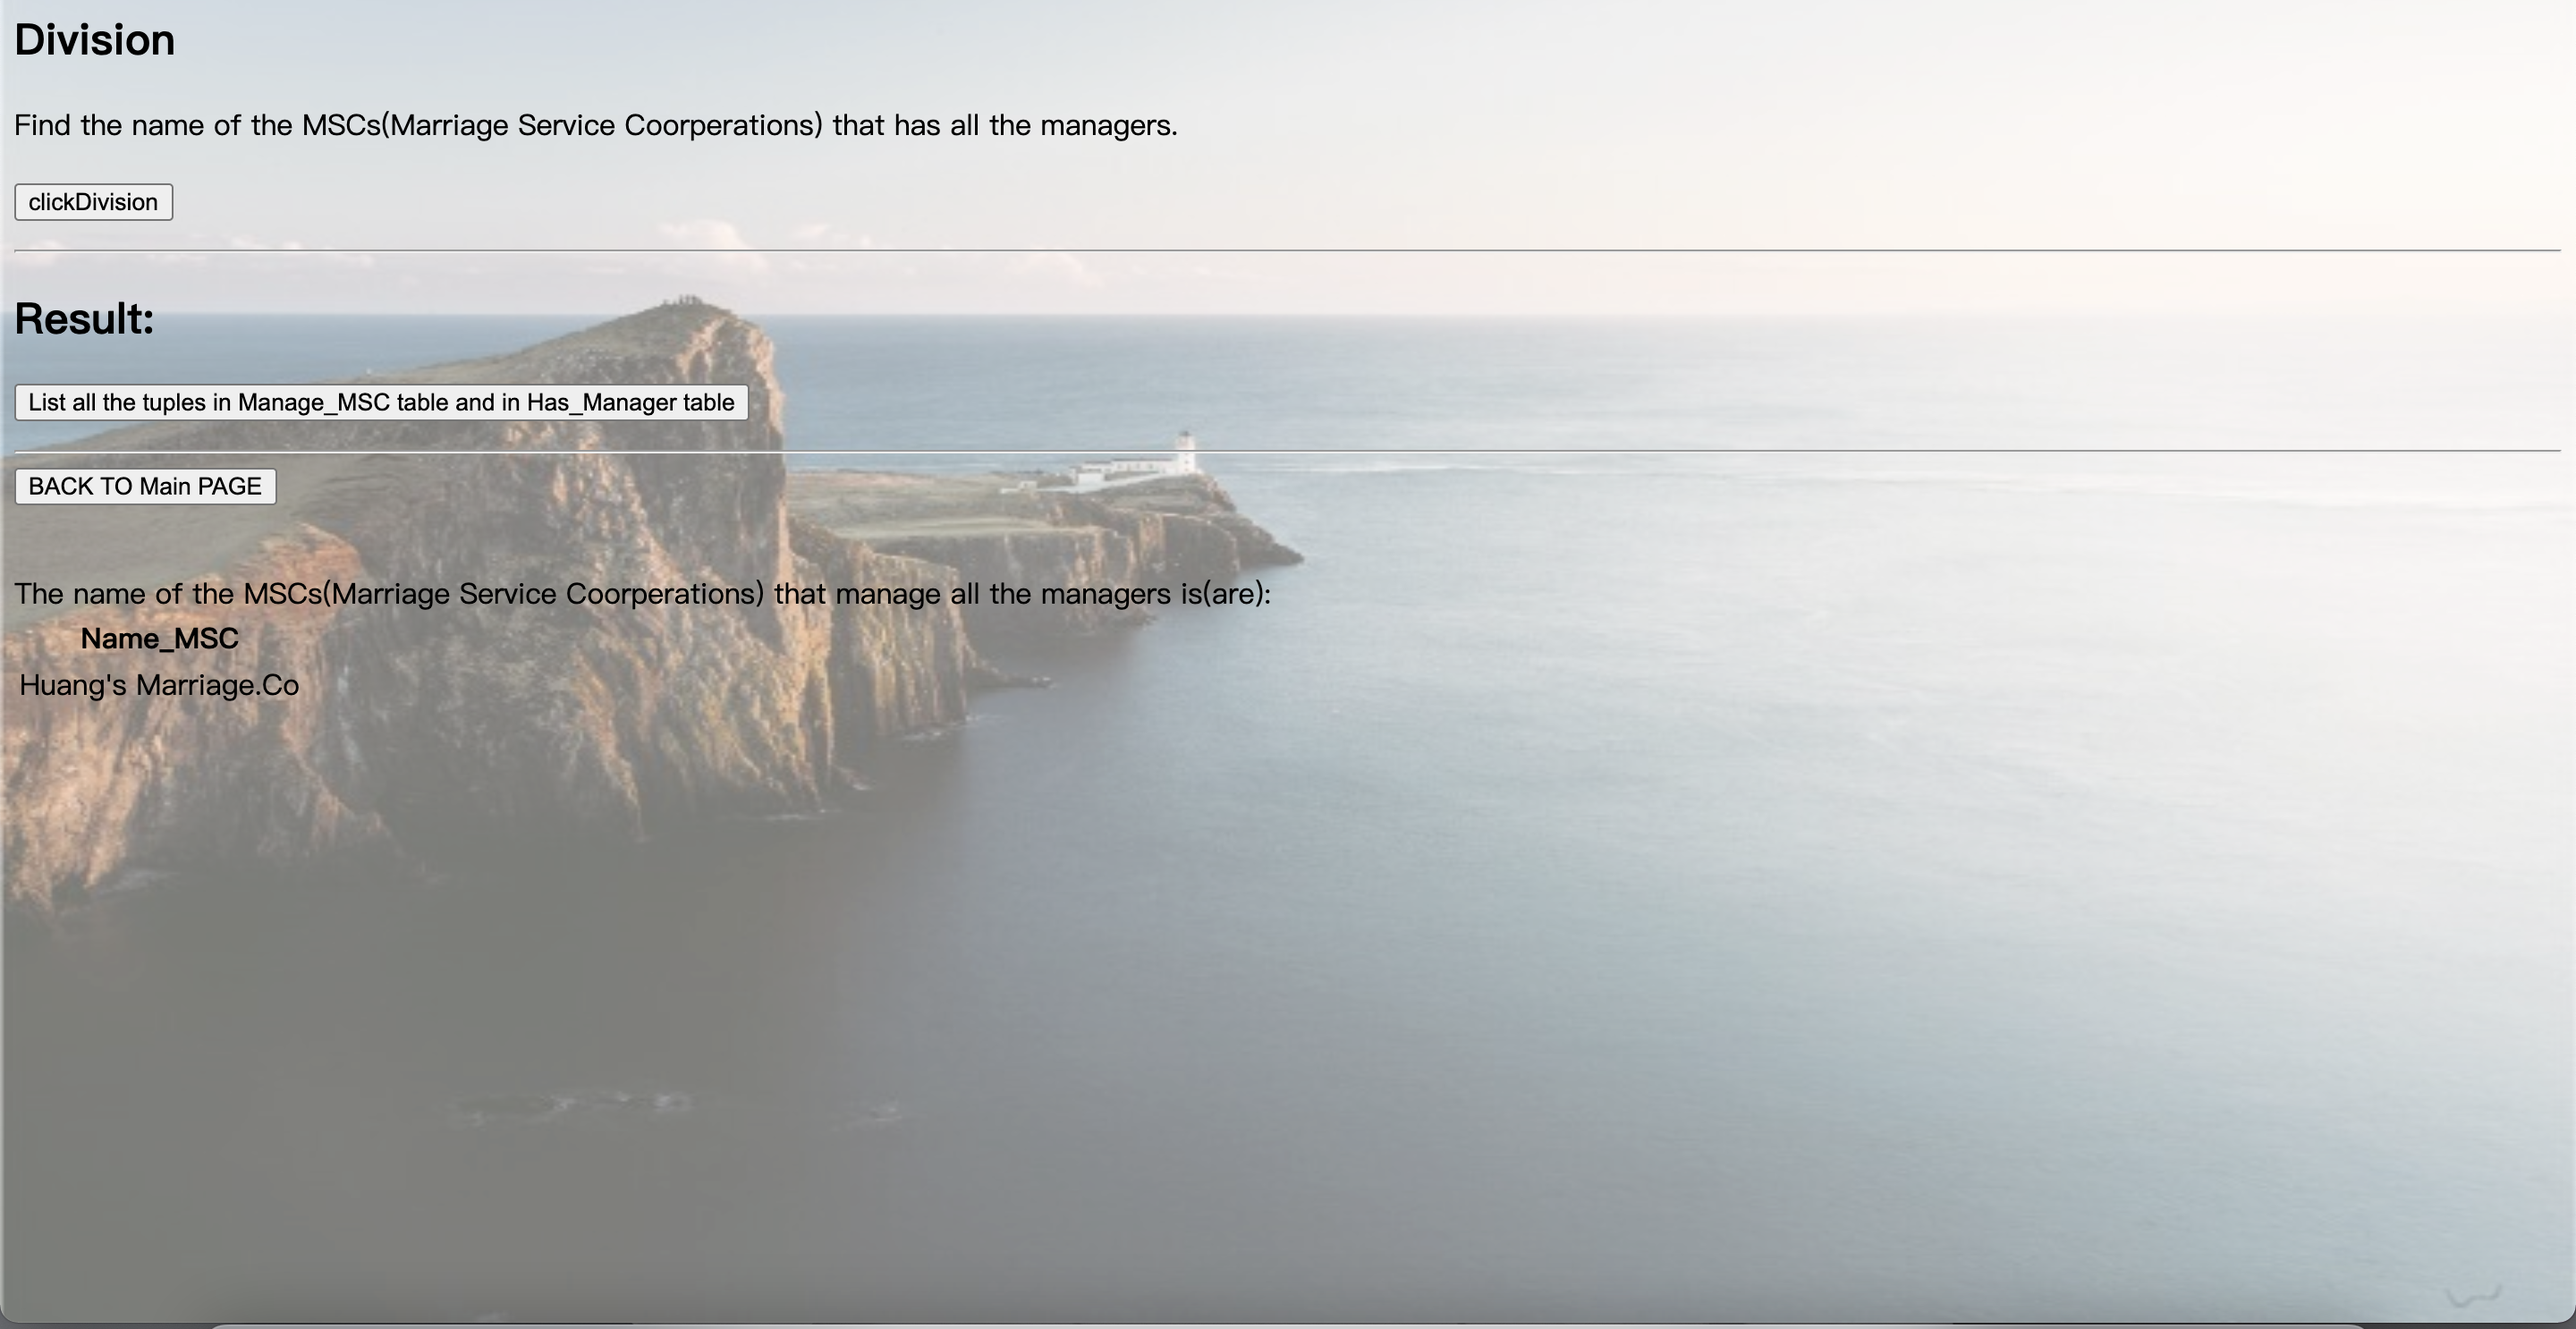
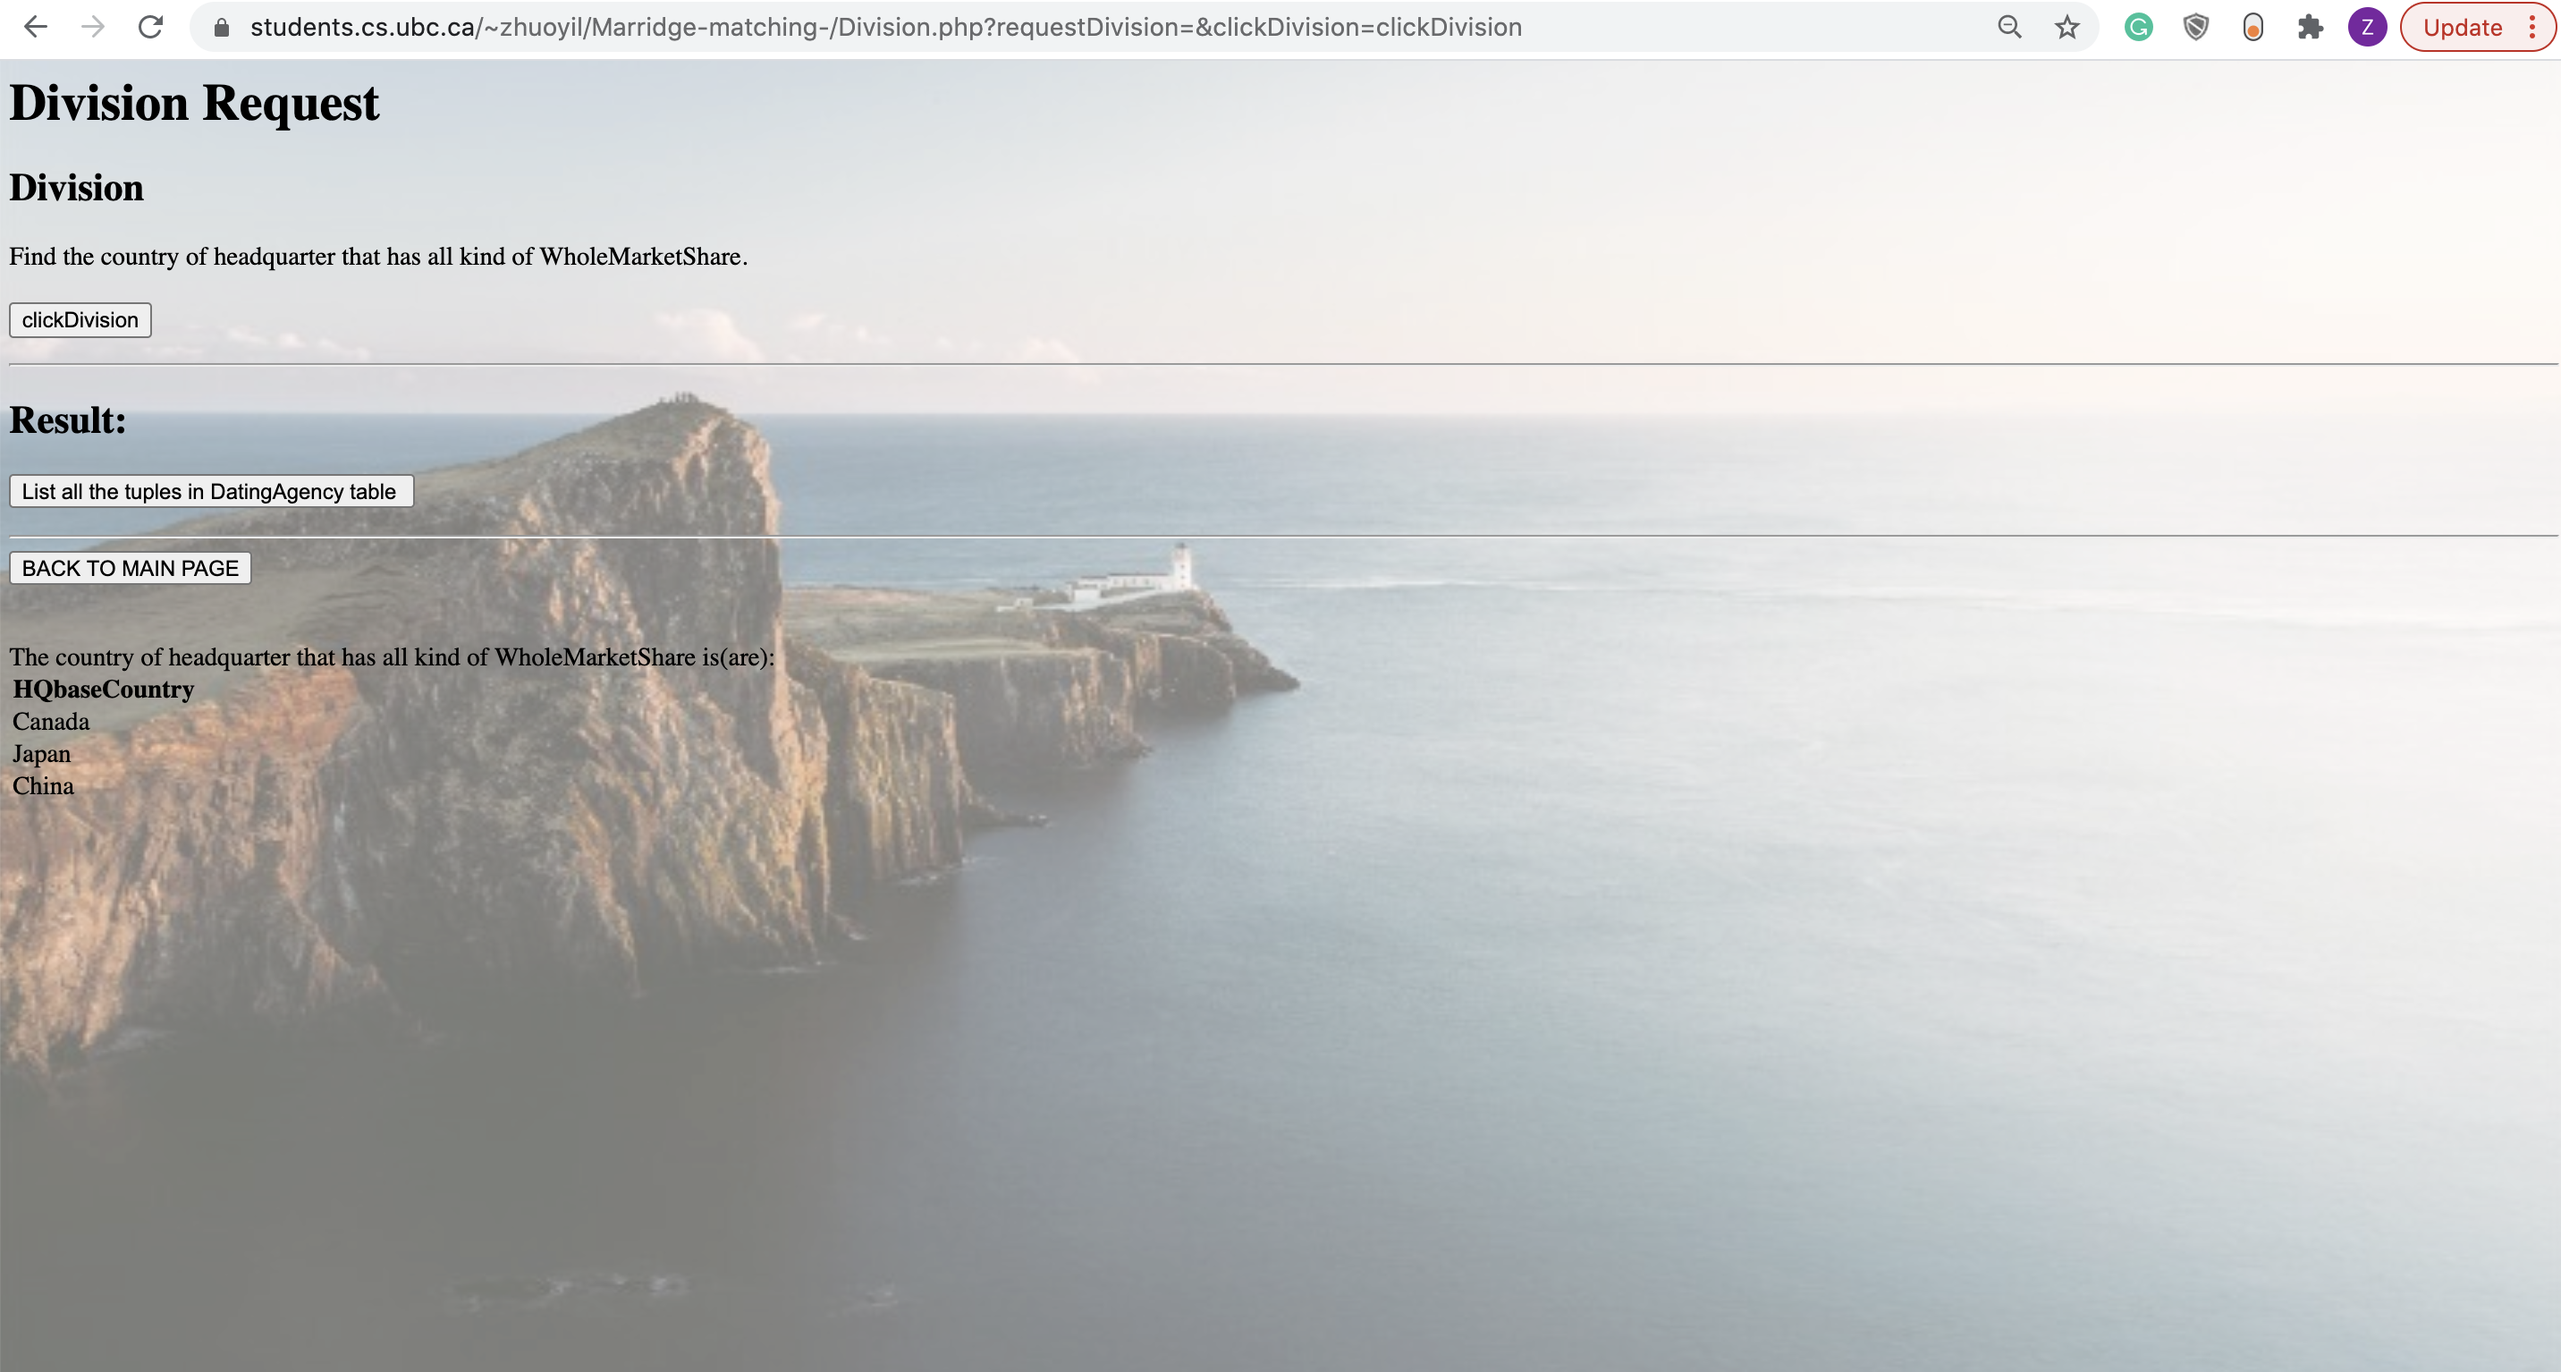
modified division qiery

diff --git a/Division.php b/Division.php
@@ -25,7 +25,7 @@
         <form method="GET" action="Division.php">
             <!--refresh page when submitted-->
             <input type="hidden" id="requestDivision" name="requestDivision">
-            Find the name of the MSCs(Marriage Service Coorperations) that has all the managers.<br /><br />
+            Find the country of headquarter that has all kind of WholeMarketShare. <br /><br />
 
             <input type="submit" value="clickDivision" name="clickDivision"></p>
         </form>
@@ -35,12 +35,12 @@
 
         <form method="GET" action="Division.php">
             <!--refresh page when submitted-->
-            <input type="submit" value="List all the tuples in Manage_MSC table and in Has_Manager table" name="display_result"></p>
+            <input type="submit" value="List all the tuples in DatingAgency table " name="display_result"></p>
         </form>
         <hr />
         <form method="POST" action="demo_page.php">
             <!--refresh page when submitted-->
-            <input type="submit" value="BACK TO Main PAGE" name="DEMO_redirect"></p>
+            <input type="submit" value="BACK TO MAIN PAGE" name="DEMO_redirect"></p>
         </form>
 
    
@@ -125,9 +125,9 @@
 
         function printDivisionResult($result)
         { //prints results from a select statement
-            echo "<br>The name of the MSCs(Marriage Service Coorperations) that manage all the managers is(are):<br>";
+            echo "<br>The country of headquarter that has all kind of WholeMarketShare is(are):<br>";
             echo "<table>";
-            echo "<tr><th>Name_MSC </th></tr>";
+            echo "<tr><th>HQbaseCountry </th></tr>";
 
             while ($row = OCI_Fetch_Array($result, OCI_BOTH)) {
                 echo "<tr><td>" . $row[0] . "</td></tr>"; 
@@ -137,31 +137,15 @@
             echo "</table>";
         }
 
-        function printResultHas_Manager($result)
+        function printResultDatingAgency($result)
         { //prints results from a select statement
-            echo "<br>Retrieved data from table Has_Manager:<br>";
+            echo "<br>Retrieved data from table DatingAgency:<br>";
             echo "<table>";
-            echo "<tr><th>ManagerID </th><th>Name_MSC </th><th>CEO </th><th>M_Name </th><th>Workforce </th></tr>";
+            echo "<tr><th>DA_Name </th><th>WholeMarketShare </th><th>HQbaseCountry </th></tr>";
 
             while ($row = OCI_Fetch_Array($result, OCI_BOTH)) {
                 echo "<tr><td>" . $row[0] . "</td><td>" . $row[1] . "</td><td>" 
-                . $row[2] . "</td><td>" . $row[3] . "</td><td>" . $row[4]."</td></tr>"; 
-                // echo $row[0];
-            }
-
-            echo "</table>";
-        }
-
-        function printResultManage_MSC($result)
-        { //prints results from a select statement
-            echo "<br>Retrieved data from table Manage_MSC:<br>";
-            echo "<table>";
-            echo "<tr><th>Name_MSC </th><th>CEO </th><th>ClubName </th><th>DA_Name </th></tr>";
-
-            while ($row = OCI_Fetch_Array($result, OCI_BOTH)) {
-                echo "<tr><td>" . $row[0] . "</td><td>" . $row[1] . "</td><td>" 
-                . $row[2] . "</td><td>" . $row[3] ."</td></tr>"; 
-                // echo $row[0];
+                . $row[2] . "</td></tr>"; 
             }
 
             echo "</table>";
@@ -197,15 +181,15 @@
         function handleDivision()
         {
         
-            $result = executePlainSQL(" SELECT mmsc.Name_MSC
-                                        FROM Manage_MSC mmsc 
+            $result = executePlainSQL(" SELECT DISTINCT da.HQbaseCountry
+                                        FROM DatingAgency da 
                                         WHERE NOT EXISTS 
-                                            ((SELECT hm.ManagerID 
-                                            FROM Has_Manager hm) 
+                                        ((SELECT da1.WholeMarketShare 
+                                            FROM DatingAgency da1) 
                                             MINUS
-                                            (SELECT hm2.ManagerID
-                                            FROM Has_Manager hm2 
-                                            WHERE hm2.Name_MSC = mmsc.Name_MSC AND hm2.CEO = mmsc.CEO))");
+                                        (SELECT da2.WholeMarketShare 
+                                            FROM DatingAgency da2
+                                            WHERE da.HQbaseCountry = da2.HQbaseCountry))");
             
             printDivisionResult($result);
         }
@@ -217,10 +201,9 @@
             }
         } else if (isset($_GET['display_result'])) {
             if (connectToDB()) {
-                $result = executePlainSQL("SELECT * FROM Manage_MSC");
-                printResultManage_MSC($result);
-                $result2 = executePlainSQL("SELECT * FROM Has_Manager");
-                printResultHas_Manager($result2);
+                $result = executePlainSQL("SELECT * FROM DatingAgency");
+                printResultDatingAgency($result);
+               
                 disconnectFromDB();
             }
         } else if (isset($_POST['DEMO_redirect'])) {

diff --git a/demo_page.php b/demo_page.php
@@ -264,16 +264,16 @@
 <div id="Division" class="tabcontent">
   <h3> Division</h3>
   <p> <font size="2" face="Lucida Console" color="black"> 
-Find the name of the MSCs(Marriage Service Coorperations) that has all the managers.
-    <br>SELECT mmsc.Name_MSC
-    <br>FROM Manage_MSC mmsc 
-    <br>WHERE NOT EXISTS 
-        <br>    ((SELECT hm.ManagerID 
-        <br>    FROM Has_Manager hm) 
-        <br>    MINUS
-        <br>    (SELECT hm2.ManagerID
-        <br>    FROM Has_Manager hm2 
-        <br>    WHERE hm2.Name_MSC = mmsc.Name_MSC AND hm2.CEO = mmsc.CEO));</p>
+Find the country of headquarter that has all kind of WholeMarketShare. 
+    <br>SELECT DISTINCT da.HQbaseCountry
+    <br> FROM DatingAgency da 
+    <br> WHERE NOT EXISTS 
+      <br> ((SELECT da1.WholeMarketShare 
+       <br>  FROM DatingAgency da1) 
+       <br>  MINUS
+       <br>(SELECT da2.WholeMarketShare 
+       <br>  FROM DatingAgency da2
+        <br> WHERE da.HQbaseCountry = da2.HQbaseCountry));</p>
         
    <form action="https://www.students.cs.ubc.ca/~zhuoyil/Marridge-matching-/Division.php">
     <!--refresh page when submitted-->
